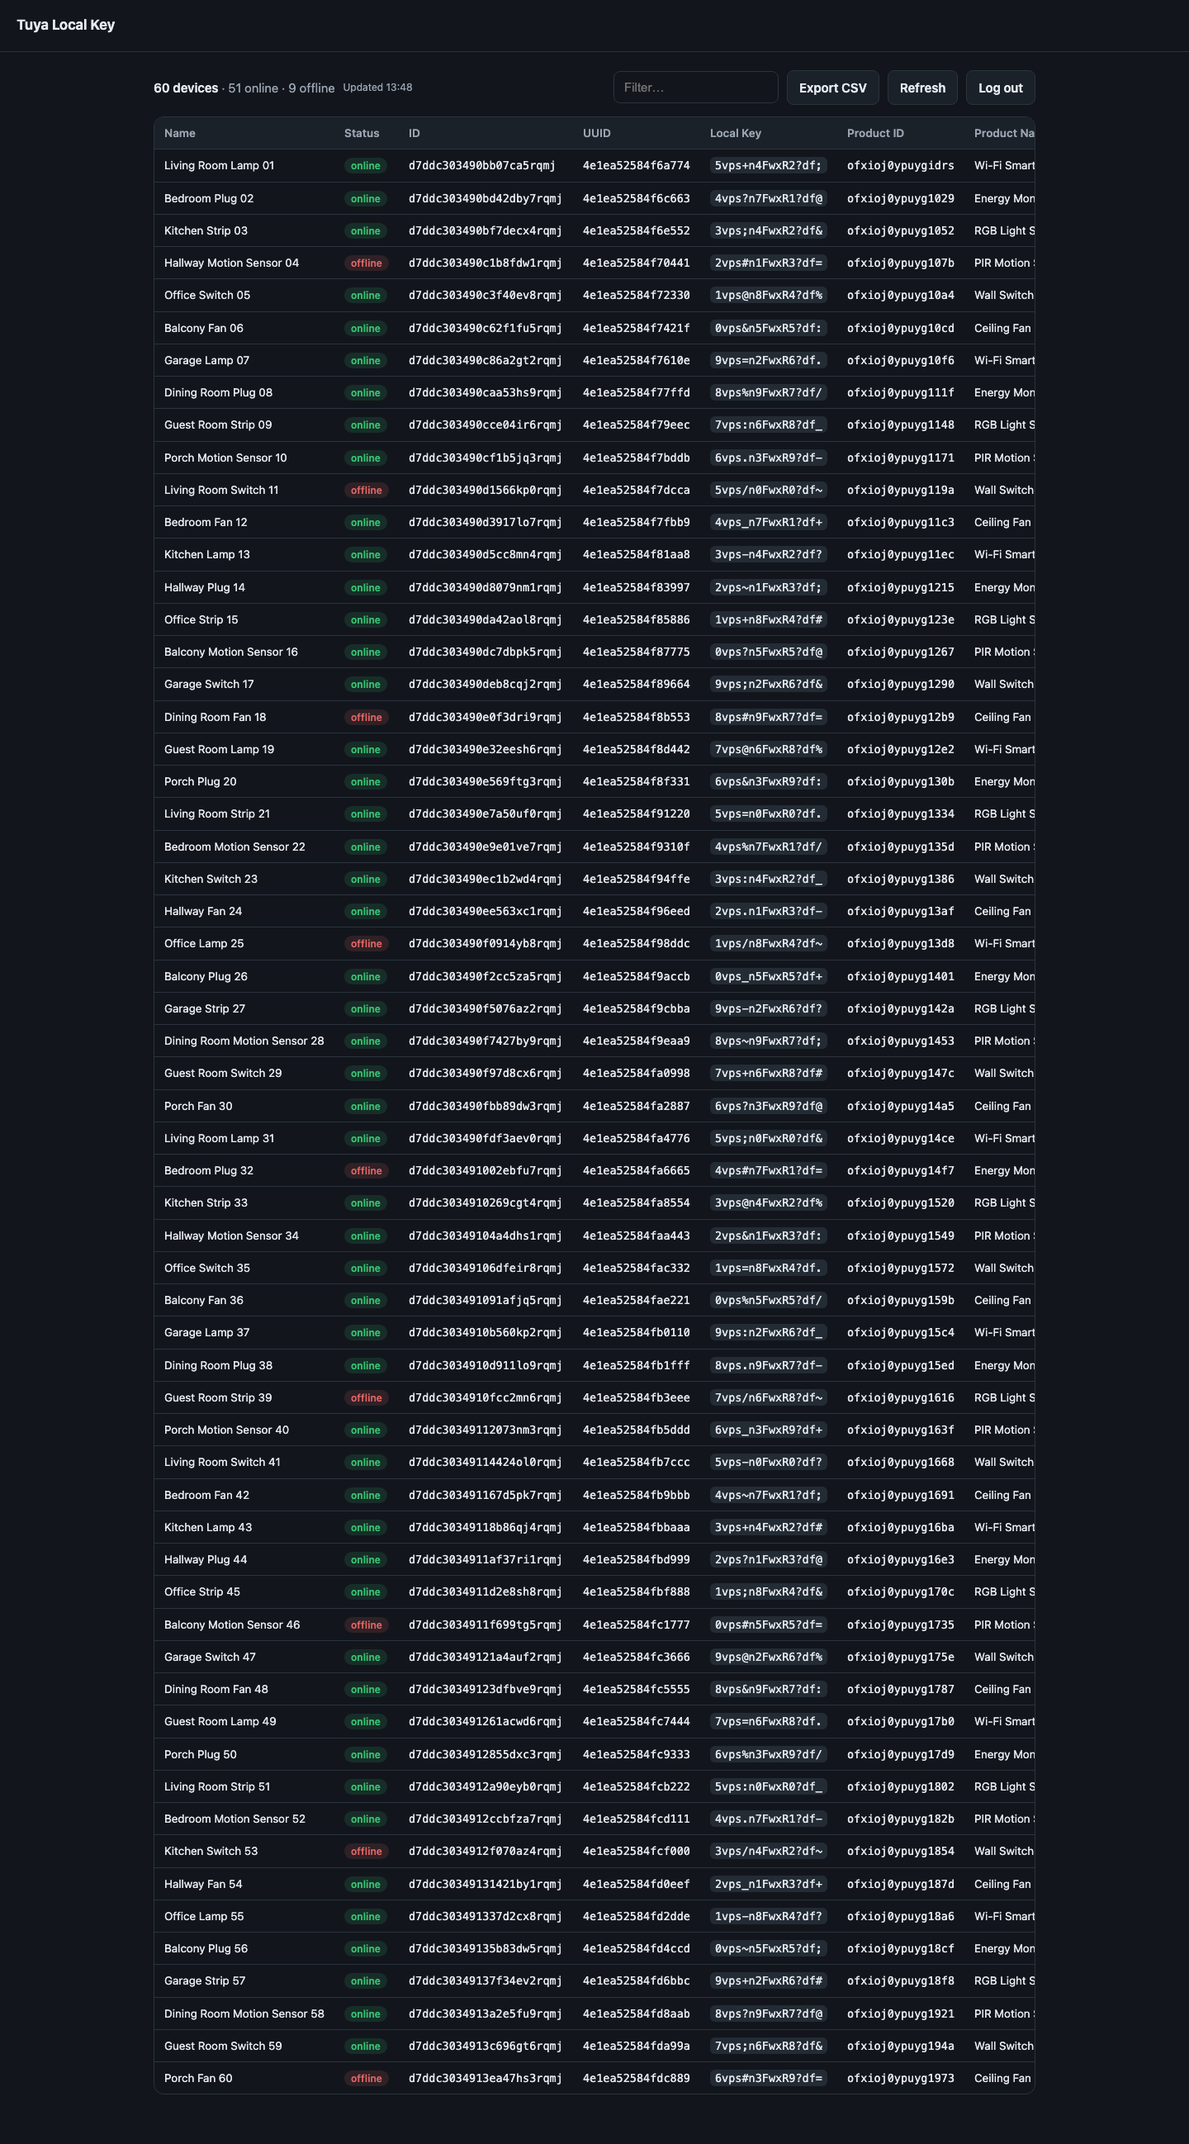
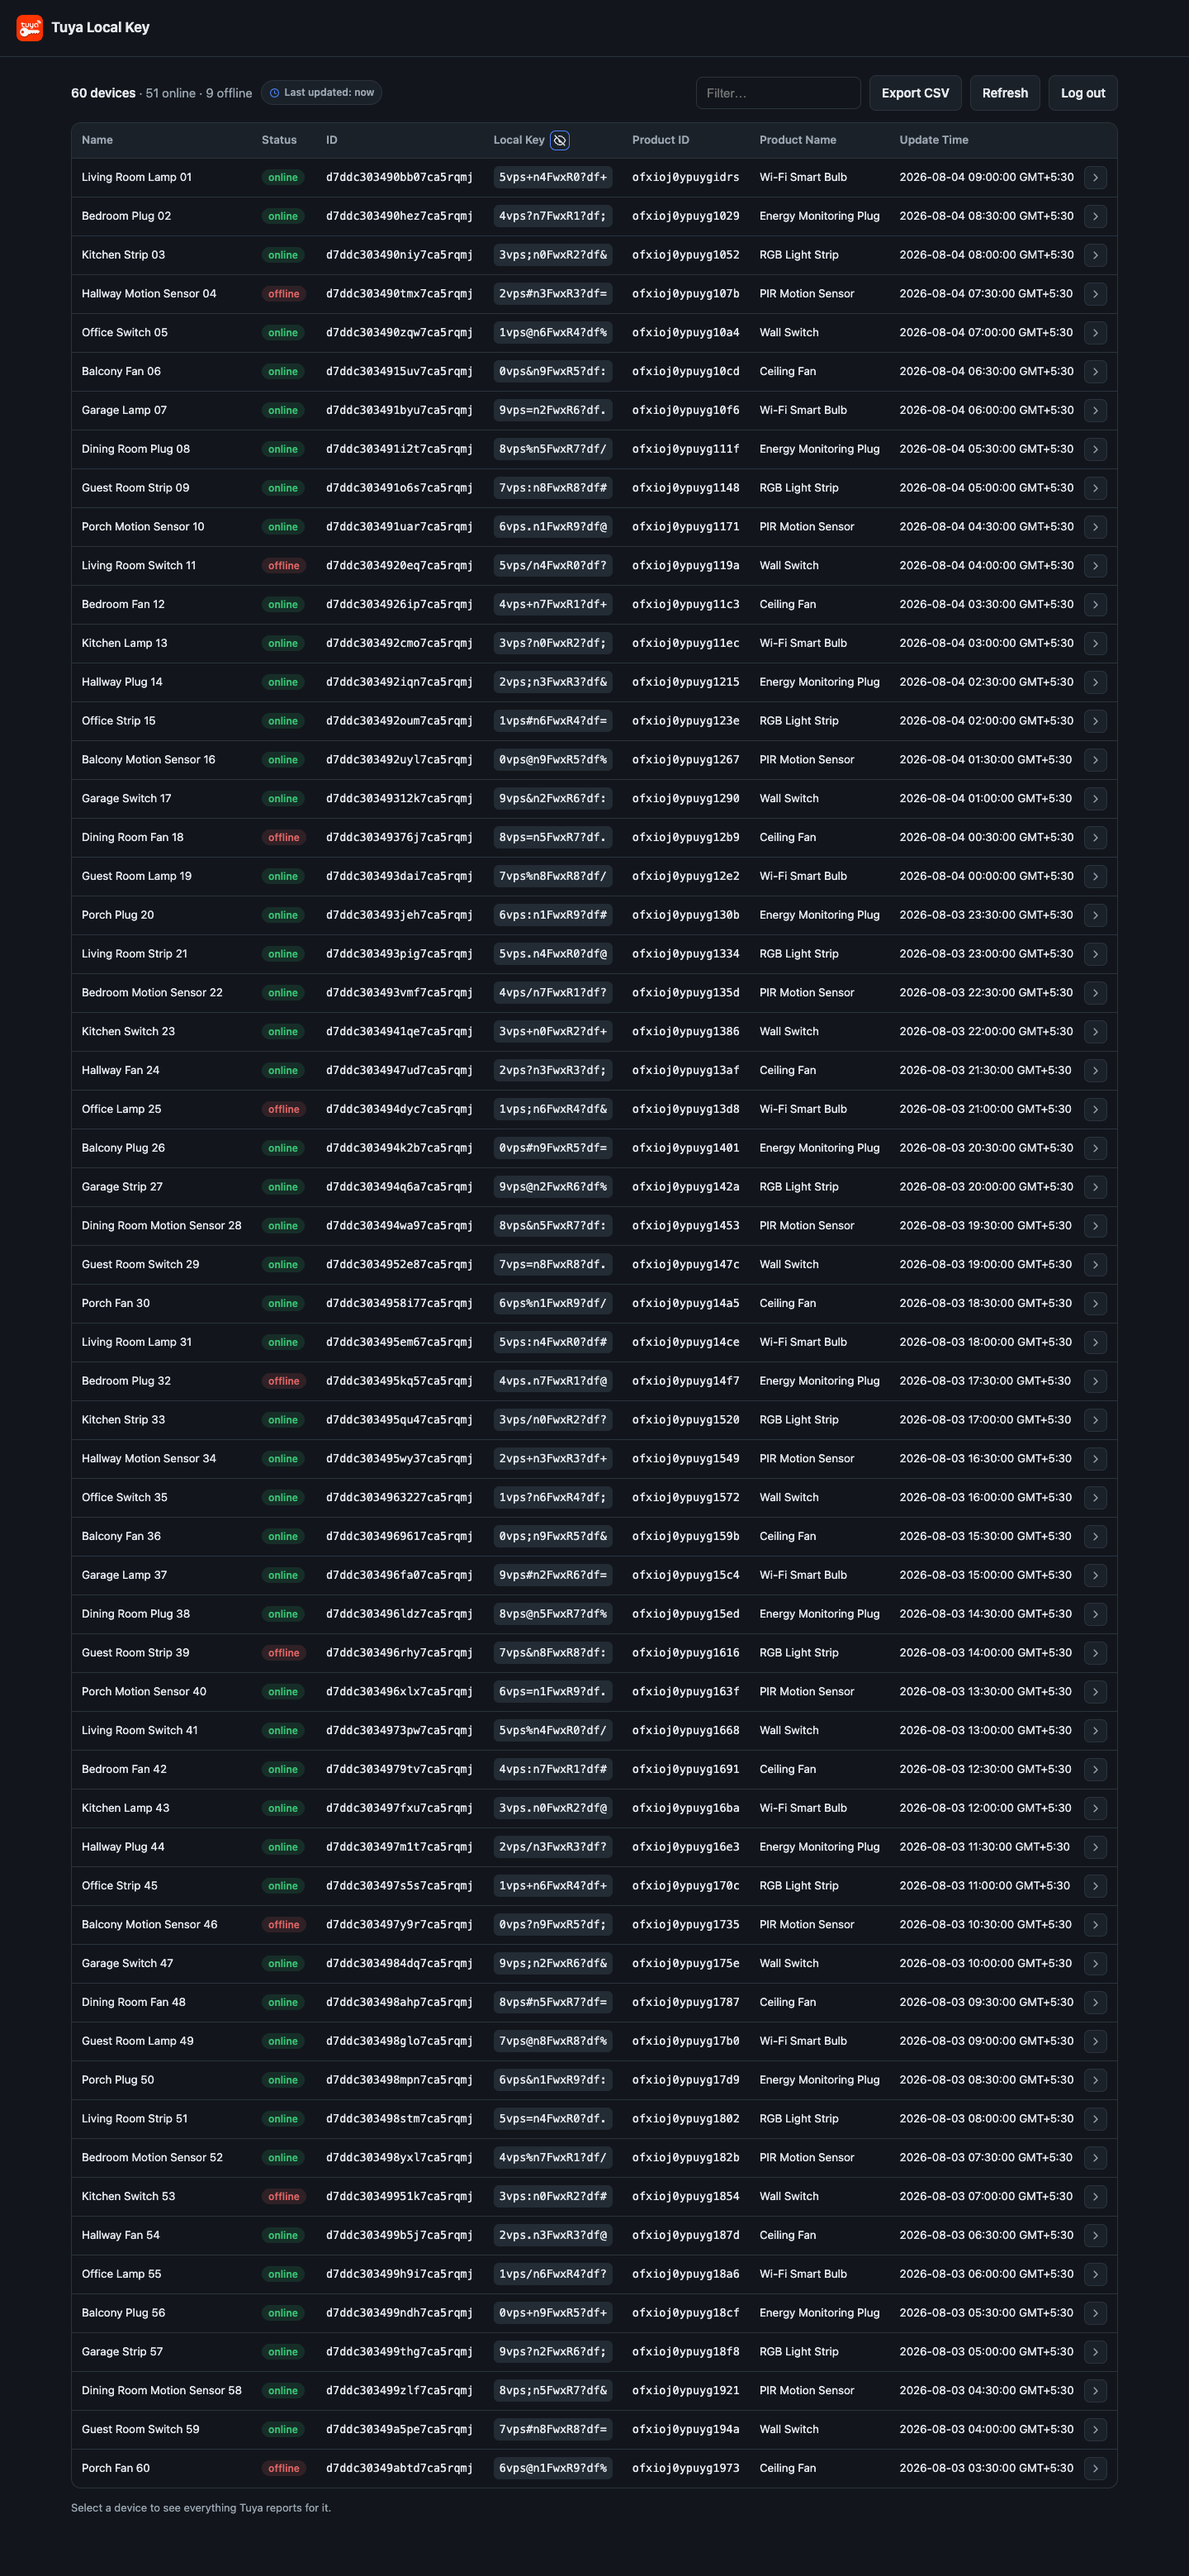
Add device details panel and update screenshots

Changed region(s): [[0.0, 0.0, 0.9062, 0.9985]]

diff --git a/README.md b/README.md
@@ -1,6 +1,6 @@
 # Tuya Local Key
 
-Tuya Local Key helps you retrieve the local keys for devices in your Smart Life / Tuya account, along with device ID, UUID, product details, category, IP address, online status, and timestamps.
+Tuya Local Key helps you retrieve the local keys for devices in your Smart Life / Tuya account, along with device ID, UUID, product details, category, IP address, online status, timestamps, and every data point the device reports.
 
 <picture>
   <source media="(prefers-color-scheme: dark)" srcset="docs/screenshots/header-devices-dark.png">
@@ -17,6 +17,7 @@ Use it as a self-hosted web UI with Docker or as a local CLI tool.
 ## Features
 
 - Web UI for QR login, device listing, filtering, local key copy, refresh, logout, and CSV export.
+- Device details panel with every field the device-sharing SDK returns, including current data point values, their specifications, and the local data point id mapping.
 - CLI with the same QR login flow for terminal use.
 - Session caching so you do not need to scan a QR code every time.
 - Docker and Docker Compose support.
@@ -80,8 +81,28 @@ Then open `http://localhost:8000`.
 2. Scan the QR code in the Smart Life app.
 3. Tap Confirm login in the app.
 4. View, filter, copy, refresh, and export your devices.
+5. Select a device row to open its details panel.
 
 The web UI caches the device list for 24 hours. Click Refresh to get the latest list from Tuya.
+
+## Device Details
+
+Selecting a device row opens a side panel with everything the device-sharing SDK reports for it:
+
+| Section | Contents |
+|---|---|
+| Identity | Name, device ID, UUID, local key, category, product ID and name, model, icon path. |
+| Connectivity | Online status, IP address, local-control support, sub-device flag, node and gateway ids, time zone, coordinates. |
+| Account | User, owner, and asset ids. |
+| Timeline | First paired, last paired, and status-updated times in your local timezone, with the UTC reading and the raw epoch below each one. |
+| Data points | Every data point: local dp id, code, current value, type, read/write access, and value range. |
+| Raw JSON | The complete device record, with a copy button. |
+
+Fields Tuya returns that are not listed above appear under "Other fields", so nothing is hidden. The dp id shown next to each data point code is the mapping local integrations such as LocalTuya and tuya-local need.
+
+The device table shows the columns you scan most; UUID, category, IP address, and the last-paired time live in the panel. CSV export and `--json` still include every field.
+
+Timestamps in the web UI use your browser's timezone, so the same list reads differently on different machines. CSV export and the CLI stay in UTC.
 
 ## Configuration
 
@@ -165,6 +186,14 @@ The QR code expires within a minute or two. If it times out, start the login aga
   <source media="(prefers-color-scheme: dark)" srcset="docs/screenshots/devices-dark.png">
   <source media="(prefers-color-scheme: light)" srcset="docs/screenshots/devices-light.png">
   <img alt="Device table with 60 demo devices" src="docs/screenshots/devices-light.png">
+</picture>
+
+### Device Details
+
+<picture>
+  <source media="(prefers-color-scheme: dark)" srcset="docs/screenshots/details-dark.png">
+  <source media="(prefers-color-scheme: light)" srcset="docs/screenshots/details-light.png">
+  <img alt="Device details panel showing identity, connectivity, account, timeline, and data points" src="docs/screenshots/details-light.png">
 </picture>
 
 ### Filtering
